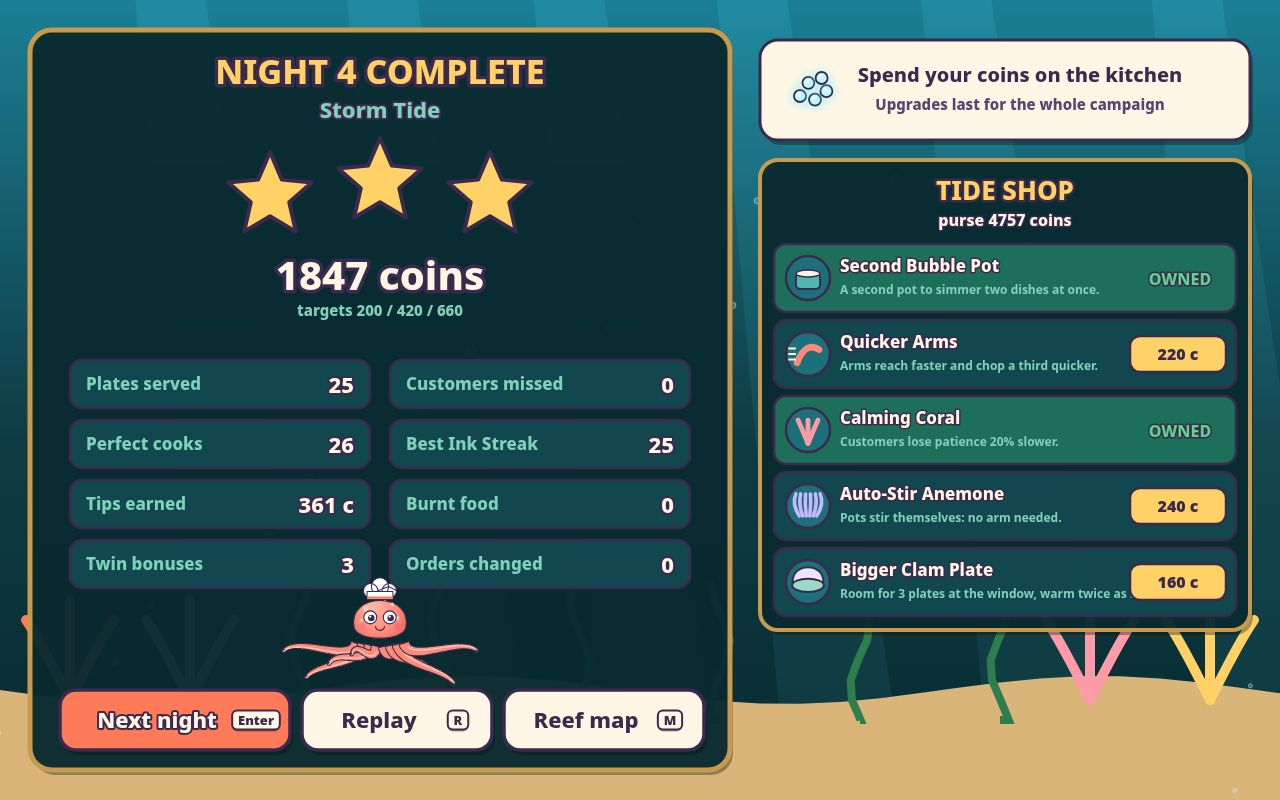
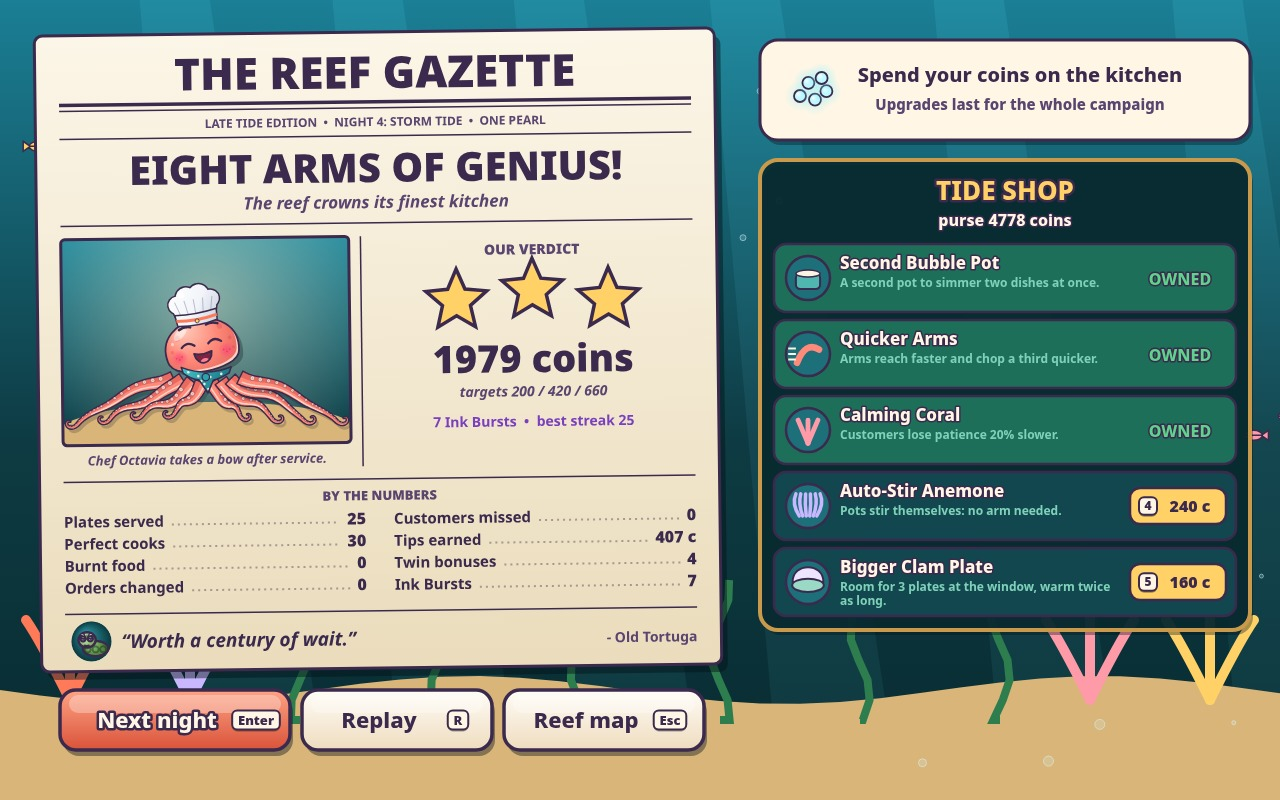
v2: final screenshots (Storm, Moon, King Tide, Reef Gazette), README, design summary in index.html, logic-first import order for the dossier

diff --git a/game/index.html b/game/index.html
@@ -1,14 +1,23 @@
 <!doctype html>
 <!--
   Octavia's Tidepool Kitchen: a cooking game for desktop browsers, keyboard and mouse.
+
   Octavia, an eight-armed octopus chef, runs a reef bistro inside a giant clam. Her eight arms
-  are the main resource: each one holds an ingredient or works a station. Chop on the Shell
-  Board, simmer in the Bubble Pot, sear and flip on the Vent Grill, steam in the Kelp Steamer,
-  assemble on the Clam Plate and serve at the Current Window before sea-creature regulars lose
-  patience. Five tide nights, eight recipes, ten ingredients, Spring Tide rushes, Ink Streak
-  combos, a food critic and an upgrade shop. Everything is drawn in Canvas 2D and every sound
-  is synthesised with WebAudio: the game loads no files beyond its own modules and makes no
-  network request.
+  are the core resource: each holds one item or works a station, and with all eight busy she
+  cannot grab or flip. 10 ingredients take different routes through 8 recipes on four kinds
+  of station: the Shell Board chops only while an arm works it, an unstirred Bubble Pot burns
+  twice as fast, the Vent Grill needs a flip. Cooked food goes raw, PERFECT, overdone, burnt.
+  Parts meet on the Clam Plate, get finished (Roll, Ladle...) and cool at the Current Window.
+
+  Perfect, warm, on-time plates raise the Ink Streak (x1 to x3). Perfect takes fill the ink
+  meter; I fires a 6 s Ink Burst that freezes patience and speeds the arms. The regulars bend
+  the rules and talk: Puffy inflates as she waits, Shelby changes her order, the Seahorse
+  Twins want their plates together, Old Tortuga doubles perfect tips, and the critic Madame
+  Mantis rates the Grand Reef Platter live. Five tide nights in their own light, Spring Tide
+  rushes, 1-3 stars, a Tide Shop, a saved campaign, a first-shift coach, a Reef Gazette.
+
+  Plain ES modules, no libraries, no build: Canvas 2D, WebAudio synthesis, seeded rules on a
+  fixed 1/60 s step. It loads only its own modules and makes no network request.
 -->
 <html lang="en">
 <head>

diff --git a/game/src/app.js b/game/src/app.js
@@ -9,14 +9,14 @@ import { NIGHTS } from './data/nights.js';
 import { buyUpgrade, recordNight, saveCampaign, UPGRADES } from './campaign.js';
 import { playEvent, setMuted, unlockAudio, updateMusic } from './audio.js';
 import { actionForArea, actionForKey, hitTest, nightHitAreas } from './input.js';
+import { chefThink } from './autochef.js';
+import { streakMultiplier } from './scoring.js';
+import { drawArmSlots, drawBanners, drawChecklist, drawHud, drawKeyHints, drawOrderBoard, drawTideGauge, drawToasts } from './render/ui.js';
 import { createArmView, drawOctavia, updateArmView } from './render/octopus.js';
 import { drawAtmosphere, drawBins, drawStationOverlays, drawClamPlate, drawCounter, drawPass, drawStations, drawTrash, drawWall } from './render/scene.js';
-import { drawArmSlots, drawBanners, drawChecklist, drawHud, drawKeyHints, drawOrderBoard, drawTideGauge, drawToasts } from './render/ui.js';
 import { ambient, createEffects, drawEffects, spawnFromEvents, updateEffects } from './render/effects.js';
 import { drawHelp, drawMap, drawPause, drawResults, drawSettings, drawShop, drawTitle } from './render/screens.js';
 import { panel, text } from './render/draw.js';
-import { chefThink } from './autochef.js';
-import { streakMultiplier } from './scoring.js';
 
 /** A new app on the title screen. */
 export function createApp({ campaign, audio }) {

diff --git a/README.md b/README.md
@@ -5,52 +5,93 @@
 [![Reward on make.fun](https://make.fun/badge/best-cooking-game-20261125-0137/Poorya0128/octavias-tidepool-kitchen/reward.svg)](https://make.fun/bounty/best-cooking-game-20261125-0137)
 
 Octavia, an eight-armed octopus chef, runs a tiny reef bistro inside a giant clam shell. Her
-eight arms are the game's main resource: every arm either holds one item or works a station.
-Read the tickets on the Current Board, cook on four kinds of station, assemble each dish on the
-Clam Plate and serve it at the Current Window before the sea-creature regulars lose patience.
+eight arms are the game's main resource: every arm either holds one item or works a station,
+and every move takes a short reach. Read the tickets on the Current Board, cook on four kinds
+of station, catch each cooked part in its PERFECT window, assemble the dish on the Clam Plate
+and serve it at the Current Window before the sea-creature regulars lose patience.
 
 ![Storm Tide service during a Spring Tide rush](screenshots/1-cover.jpg)
 
 ## Features
 
-- **8 recipes, 10 ingredients, 5 stations.** Sand Rice is steamed for a Kelp Roll but seared
+- **8 recipes, 10 ingredients, 4 kinds of station.** Sand Rice is steamed for a Kelp Roll but seared
   for Coral Toast; Driftwood Mushroom is seared for a Pearl Rice Bowl but chopped for Bubble
   Broth. The same ingredient goes down different routes.
-- **Eight arms.** Chopping on the Shell Board only moves while an arm works it. A Bubble Pot
-  burns twice as fast with no arm stirring it. The Vent Grill needs a flip at the right moment.
-- **Perfect windows.** Cooked food goes raw, then glows PERFECT for a few seconds, then
-  overcooks, then burns. Perfect parts earn tips.
-- **Ink Streak.** On-time, perfectly cooked plates in a row raise the multiplier from x1 to x3.
-  A customer who leaves hungry breaks it.
-- **Regulars with personalities.** Puffy the pufferfish inflates as her patience drains, Shelby
-  the hermit crab swaps shells and changes her order once, the Seahorse Twins tip extra when
-  both plates arrive together, Old Tortuga doubles tips for perfect food, and on the last night
-  Madame Mantis, the food critic, rates the Grand Reef Platter live.
-- **Campaign.** Five tide nights of three minutes each, Spring Tide rushes, 1-3 stars per
-  night, and a Tide Shop between nights: Second Bubble Pot, Quicker Arms, Calming Coral,
-  Auto-Stir Anemone and Bigger Clam Plate. Progress is saved in the browser.
+- **Eight arms.** Each arm is free, holds one item or works a station. Chopping on the Shell
+  Board only moves while an arm works it, and the arm that fills a Bubble Pot stays to stir it:
+  an unstirred pot burns twice as fast. The Vent Grill calls FLIP! and chars the food if it is
+  not flipped in time. With all eight arms busy, Octavia cannot grab or flip anything.
+- **Perfect windows.** Steamed, simmered and seared food cooks, glows PERFECT for 2.4 to 3.2
+  seconds, turns overdone, then burns. Perfect parts earn tips. Finished plates wait at the
+  Current Window and cool there: a cold plate loses its perfect tips.
+- **Ink Streak.** A plate served on time (with at least 30% of the customer's patience left),
+  still warm and with every cooked part perfect raises the streak. At 3, 6, 10 and 15 in a
+  row the multiplier climbs from x1 to x1.5, x2, x2.5 and x3. Any other serve, or a customer
+  who leaves hungry, resets it.
+- **Ink Burst.** Taking food off a station at its perfect moment fills a fifth of Octavia's ink
+  meter, and serving a perfect plate fills a tenth. With a full meter she squirts a six-second
+  ink cloud: patience stops draining, her arms reach 1.6 times faster and chopping runs 1.5
+  times faster. A hungry walk-out spills half the meter.
+- **Regulars with personalities and voices.** Puffy the pufferfish inflates as her patience
+  drains. Shelby the hermit crab swaps shells and changes her order once. The Seahorse Twins
+  order on two linked tickets and tip 15 coins when both plates arrive within 12 seconds. Old
+  Tortuga waits longest and doubles perfect tips. Every regular has lines for arriving,
+  waiting, being served and walking out. Diners look in over their plates at the Current
+  Window and speak up in a bubble, and each night's results quote one of them.
+- **The critic.** On King Tide, Madame Mantis the mantis shrimp visits twice for the Grand Reef
+  Platter. Her star rating is shown live and cools from 5 toward 2 as she waits. Her verdict
+  weighs perfect parts, warmth and speed, and three stars for the night need her average of 4
+  or more.
+- **Five tide nights.** Slack, Rising, Moon, Storm and King Tide last three minutes each and add
+  dishes and regulars as they go. Each night has its own light: Moon Tide brings a moonbeam and
+  glowing plankton, Storm Tide rain and lightning, King Tide bunting and golden spotlights. One
+  to three Spring Tide rushes a night, announced five seconds ahead, bring tickets about 2.4
+  times as often for 24 seconds and speed up the music. Coin targets give 1-3 stars, and one
+  star opens the next night.
+- **Tide Shop and saves.** Coins bank into a purse that buys five upgrades for the rest of the
+  campaign: Second Bubble Pot, Quicker Arms (faster reach and chopping), Calming Coral (patience
+  drains 20% slower), Auto-Stir Anemone (pots stir themselves) and Bigger Clam Plate (three
+  window slots, plates stay warm twice as long). Stars, coins, upgrades and settings are saved
+  in the browser.
+- **First-shift coach.** On the first night a coach names the next step for the selected
+  ticket, shows its key and points at the spot, with urgent flips and burnt food first. It
+  says goodbye after two dishes and does not come back.
+- **The Reef Gazette.** Each night ends on a newspaper page: a headline by stars earned, the
+  verdict in stars and coins, the night's numbers and a diner's quote, beside the Tide Shop.
 - **Made from code.** Every picture is drawn with Canvas 2D and every sound is synthesised with
-  WebAudio. The game loads nothing but its own modules and makes no network request.
+  WebAudio. The game loads nothing but its own modules and makes no network request. A
+  reduced-motion setting removes screen shake and thins out the particles.
 
 ## Controls
 
 | Key | Action |
 | --- | --- |
-| `1`-`0` | Grab an ingredient with a free arm |
-| `Q` `W` `E` `R` | Shell Board, Bubble Pot, Vent Grill, Kelp Steamer: put food in, flip, stir or take it out |
-| `Space` | Lay held food on the Clam Plate, then finish the dish (Roll, Ladle, Toss...) |
-| `S` | Serve the glowing plate at the Current Window |
+| `1`-`0` | Grab an ingredient with a free arm (number row or keypad, any keyboard layout) |
+| `Q` `W` `E` `R` | Shell Board, Bubble Pot, Vent Grill, Kelp Steamer: put held food in, flip (`E`), start or stop stirring (`W`), take ready food, clear burnt food |
+| `Space` or `Enter` | Lay held food on the Clam Plate, then finish the dish (Roll, Ladle, Toss...) |
+| `S` | Serve a finished plate from the Current Window |
 | `Tab` | Choose the ticket the plate is for |
-| `Backspace` | Bin the newest held item, burnt food or the plate |
-| `P` `H` `M` | Pause, help, mute |
+| `I` | Fire the Ink Burst when the meter is full |
+| `Backspace` or `Delete` | Bin the newest held item, else burnt food, the plate, or a plate nobody ordered |
+| `P` or `Esc` | Pause; then `P` or `Esc` resumes, `H` opens help, `O` settings, `X` quits to the map |
+| `H` | Open or close the help card (`Esc`, `Enter`, `Space` or a click also close it) |
+| `M` | Mute or unmute, on any screen |
+| Title | `Enter` or `Space` play, `H` help, `O` settings |
+| Reef map | Arrow keys pick a night, `Enter` or `Space` starts it, `U` opens the Tide Shop, `Esc` returns to the title |
+| Results | `Enter` next night once it is open (the reef map after King Tide), `R` replay, `Esc` reef map, `1`-`5` buy upgrades |
+| Tide Shop | `1`-`5` buy upgrades, `Esc` or `U` close |
+| Settings | `M` sound, `R` reduced motion, `Esc` or `O` back |
 
-Everything also works with the mouse: click bins, stations, tickets and plates, or drag an
-ingredient from its bin onto a station.
+Everything also works with the mouse: click a crate to grab, a station (each grill slot and
+steamer basket on its own), the Clam Plate, a plate in the Current Window to serve it, a ticket
+to choose it, the ink jar to bin, the ink meter to fire the Ink Burst, or the pause button. You
+can also drag an ingredient from its crate onto a station or the Clam Plate. Every menu button
+is clickable and shows its key.
 
 ## Play locally
 
 ```sh
-node serve.ts
+node serve.ts   # Node 22.18 or newer
 # then open http://localhost:8080 in a desktop browser
 ```
 
@@ -60,27 +101,48 @@ Any static file server works: the game is the `game/` folder, with no build step
 
 | Path | Job |
 | --- | --- |
-| `game/src/state.js` | One night of service: seeded rules, `dispatch` for player actions, `stepNight` for time |
+| `game/index.html` | The page: one canvas and the module entry |
+| `game/src/main.js` | Boot: fits the canvas to the window, loads the save, runs the fixed-step loop, opens `?scene=` and `?autoplay` |
+| `game/src/app.js` | Screen flow (title, reef map, night, results) and overlays; turns keys and clicks into commands |
+| `game/src/state.js` | One night of service: seeded rules, `dispatch` for player actions, `stepNight` for time, Spring Tide rushes |
 | `game/src/arms.js` | Octavia's eight arms: holding, working, reaching |
-| `game/src/stations.js` | Chopping, simmering, searing with a flip, steaming; perfect, overdone and burnt |
-| `game/src/orders.js` | Tickets, customers, the Clam Plate and the Current Window |
+| `game/src/stations.js` | Chopping, simmering and stirring, searing with a flip, steaming; perfect, overdone and burnt |
+| `game/src/orders.js` | Tickets and patience, the regulars' quirks and voice lines, the Clam Plate, the Current Window and the bin |
+| `game/src/ink.js` | The ink meter and the Ink Burst |
+| `game/src/coach.js` | The first-shift coach: the next step, its key and where to point |
 | `game/src/scoring.js` | Coins, tips, Ink Streak, stars, the critic's rating |
-| `game/src/campaign.js` | Five nights, the Tide Shop and the saved game |
-| `game/src/data/` | Ingredients, recipes, customers and nights |
-| `game/src/render/` | Kitchen, Octavia, food, customers, HUD, screens and effects |
+| `game/src/campaign.js` | Five nights, the purse, the Tide Shop and the saved game |
+| `game/src/input.js` | Keys and pointer: hit areas, clicks and drags |
 | `game/src/audio.js` | WebAudio sound effects and music |
-| `game/src/input.js` | Keyboard and mouse |
 | `game/src/autochef.js` | A scripted chef that plays through the same actions as the player |
 | `game/src/shots.js` | Deterministic screenshot scenes |
+| `game/src/config.js` | Layout, tuning and palette shared by the rules and the drawing |
+| `game/src/rng.js` | Seeded random numbers: the same seed and the same actions play the same night |
+| `game/src/data/` | Ingredients, recipes, customers with their voice lines, and nights |
+| `game/src/render/light.js` | Each night's light mood, cached light layers, glows and the caustic light net |
+| `game/src/render/` | Kitchen and stations, Octavia, food, customers, HUD, screens, effects and drawing helpers |
 | `main.ts` | The make.fun entry program: copies `game/` and `screenshots/` and writes `dossier.json` |
+| `serve.ts` | A small static server for playing locally |
 | `vendor/makefun-game.ts` | make.fun's library, copied from the bounty kit unchanged |
 
-The screenshots are real captures of the running game made with Playwright. Each scene in
-`shots.json` (for example `?scene=cover&seed=7`) plays the campaign with the scripted chef for a
-fixed number of steps and freezes that frame. `?autoplay&speed=8` lets the chef play a normal
-night so you can watch.
+## Screenshots
+
+The screenshots are real captures of the running game, made with Playwright. Each scene in
+`game/src/shots.js` plays the campaign from a fixed seed with the scripted chef. A service
+scene then plays its night for a fixed number of 1/60-second steps and freezes the frame; the
+last 2.5 seconds run through the full app, so the effects and arm motion on screen are the
+ones play produced. The results scene plays Storm Tide to the end.
+
+| Query | Scene |
+| --- | --- |
+| `?scene=cover&seed=7` | Storm Tide during a Spring Tide rush |
+| `?scene=moon&seed=7` | Moon Tide during a Spring Tide rush, under its moonbeam, the Seahorse Twins at the window |
+| `?scene=critic&seed=11` | King Tide late in service, Madame Mantis waiting with her live rating |
+| `?scene=results&seed=7` | The Reef Gazette after Storm Tide, beside the Tide Shop |
+
+With `?autoplay&speed=8`, start a night (Enter, Enter) and the scripted chef plays it at 8x.
 
 ## Built by
 
-Built by an AI agent for make.fun's "Make the best cooking game" bounty, $250 in USDC.
-Released under the MIT License.
+Built by an AI agent team for make.fun's "Make the best cooking game" bounty. Released under
+the MIT License.
